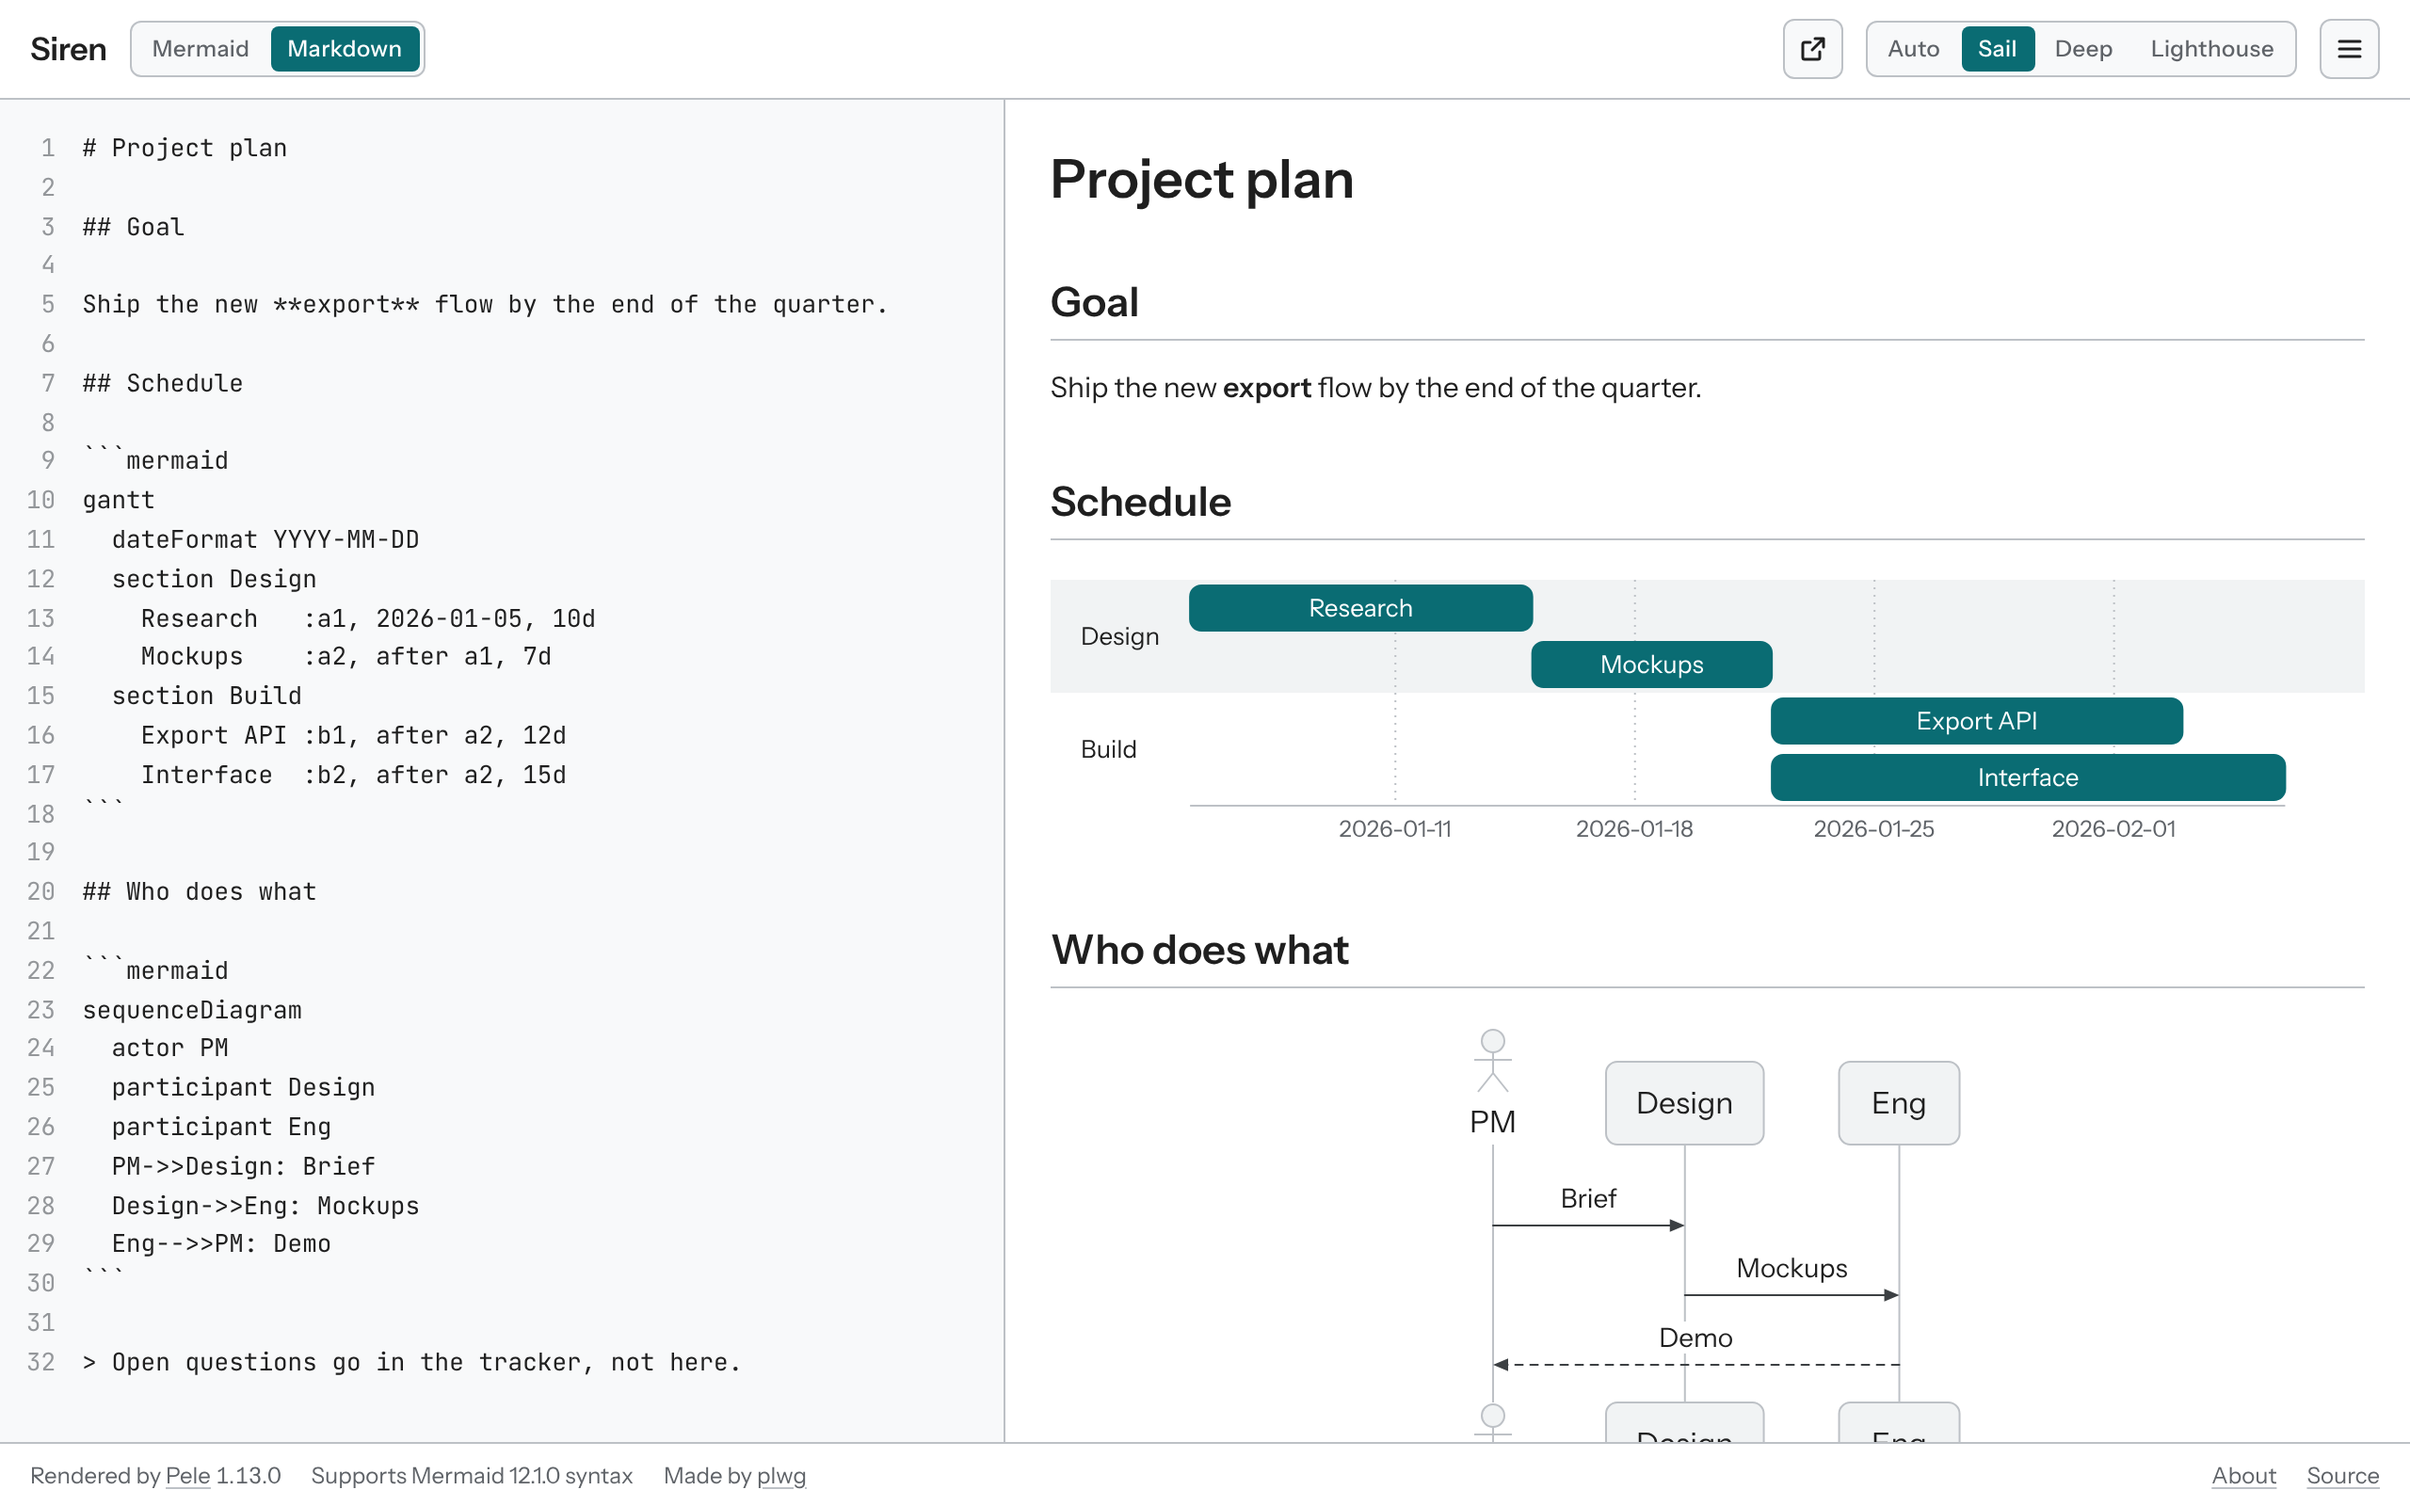
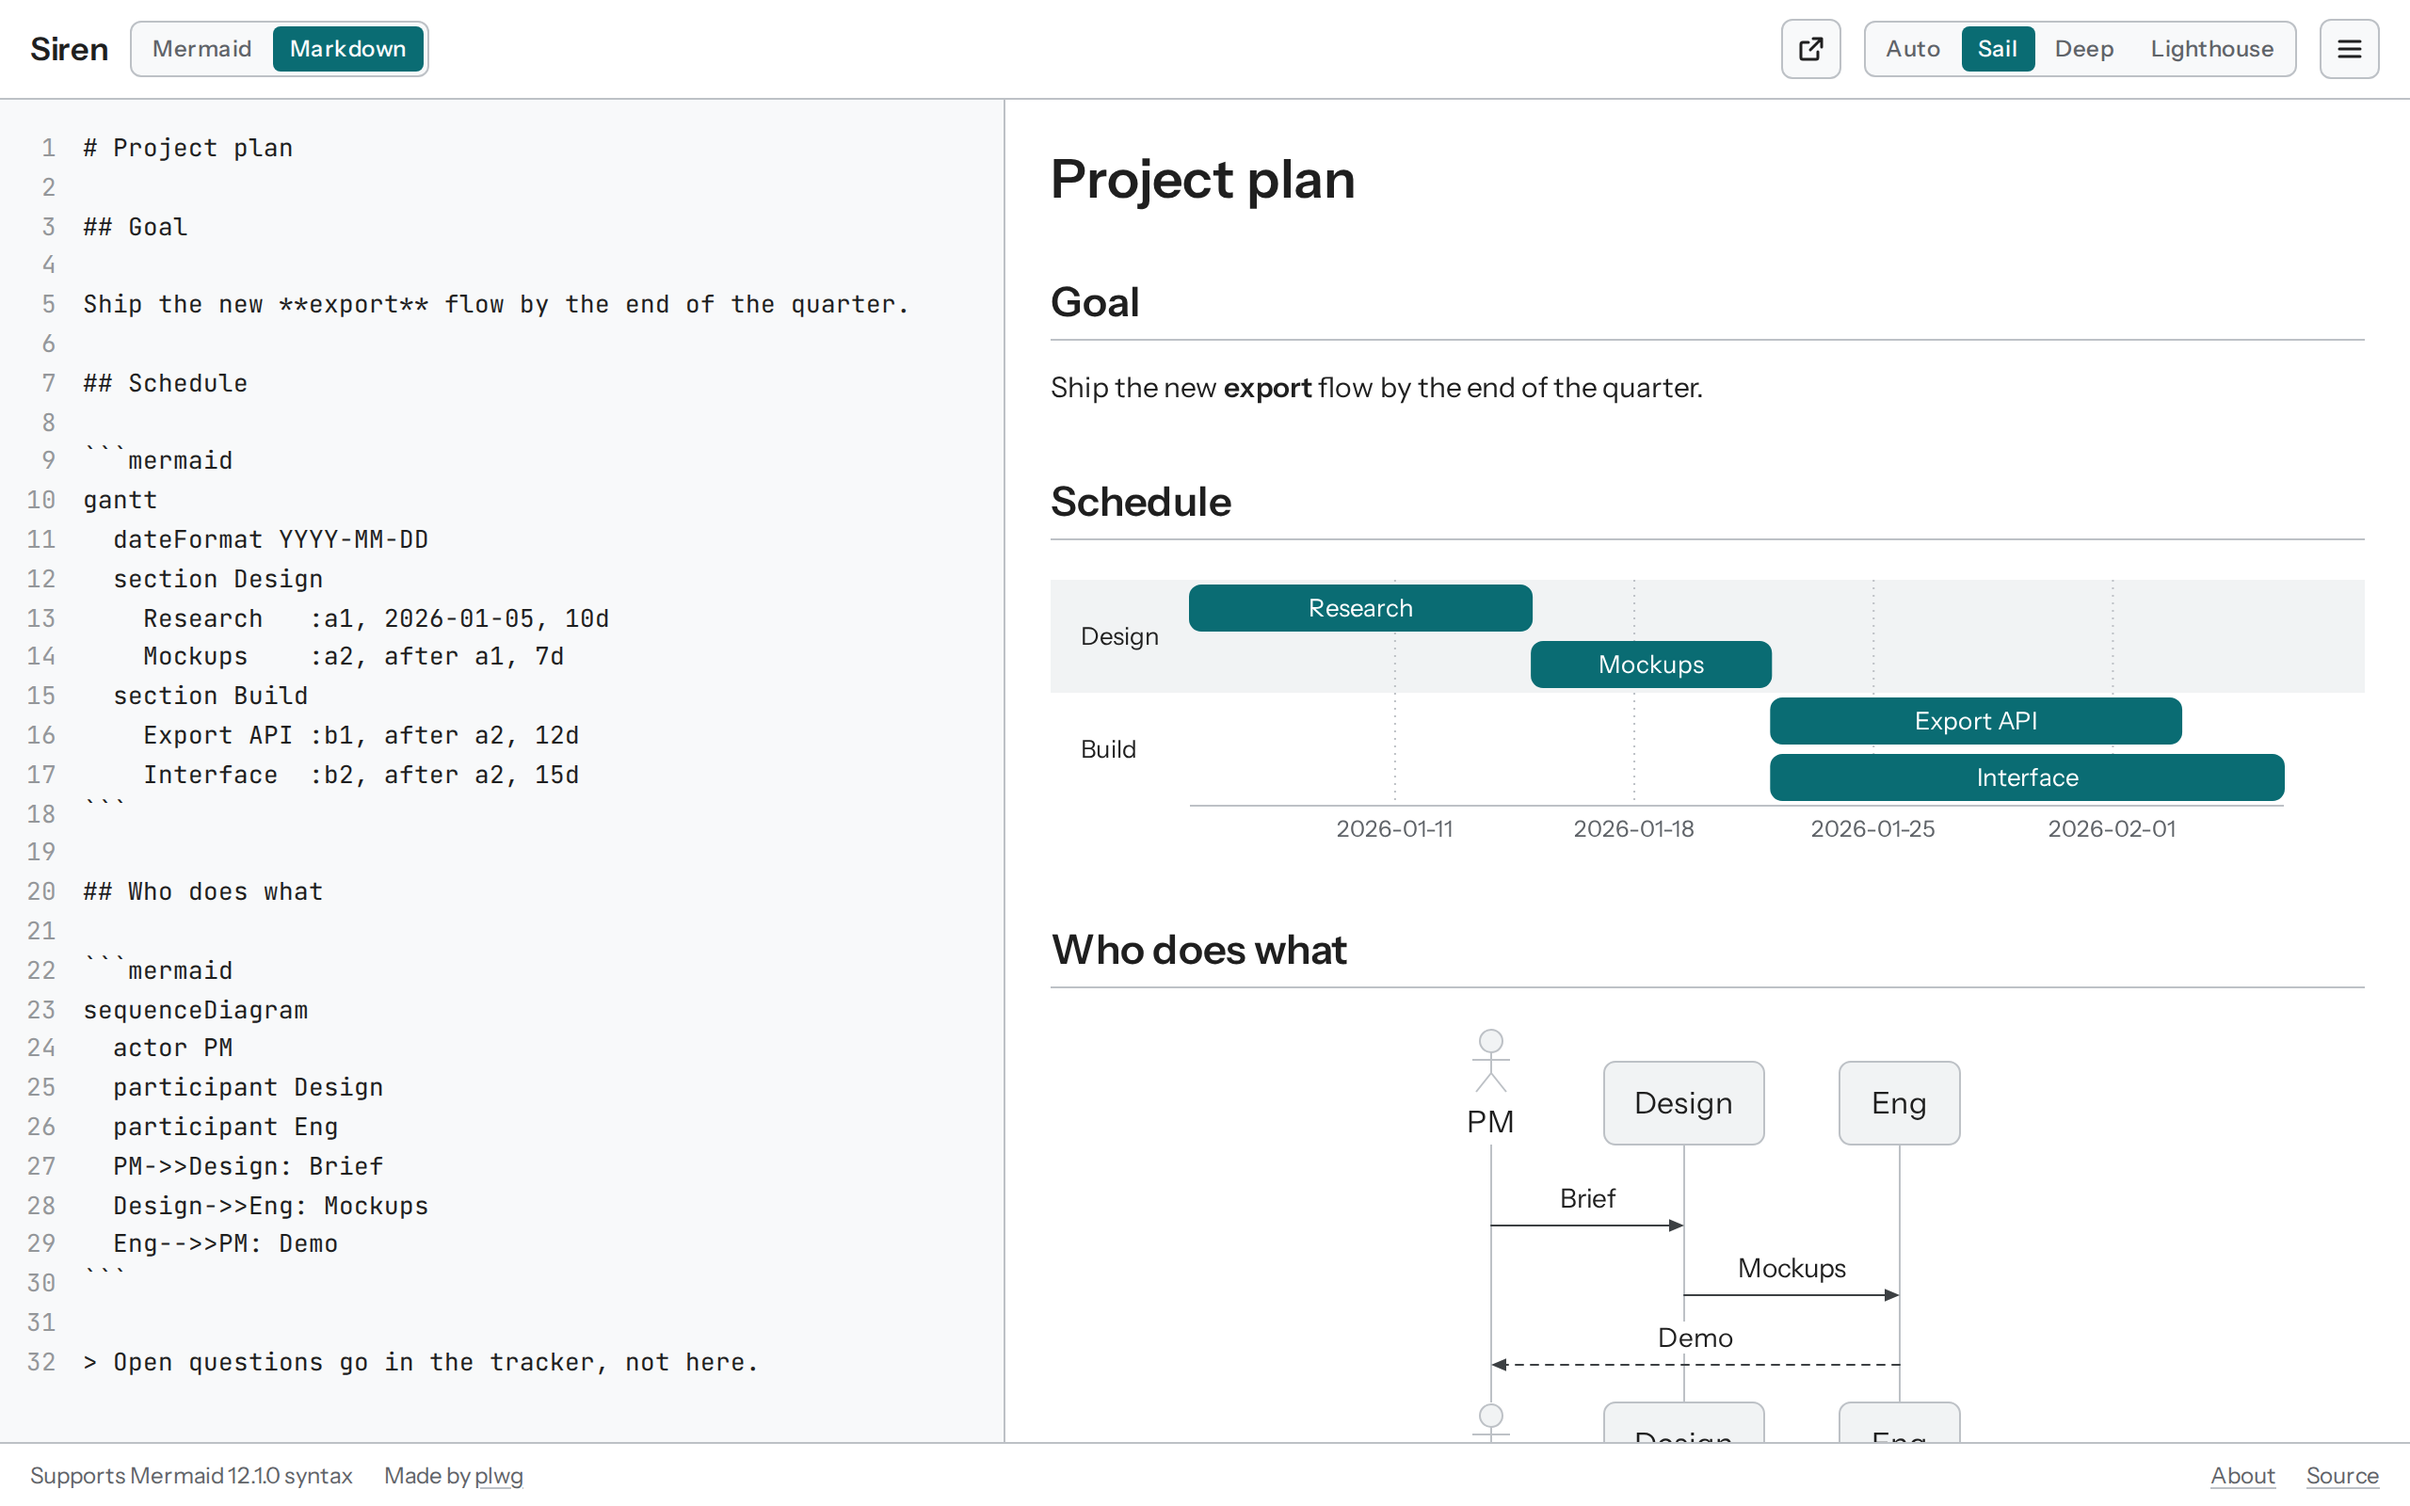
Theme the scrollbars and drop the Pele version from the footer
Scrollbars are thin, with a thumb in the theme's border color on a clear
track, darkening on hover; Safari gets the same look via the WebKit
pseudo-elements. The footer no longer says which Pele version rendered
the diagram, which isn't useful to people drawing them.

diff --git a/src/tokens.css b/src/tokens.css
@@ -74,3 +74,33 @@
   outline: 2px solid var(--focus);
   outline-offset: 2px;
 }
+
+/* Scrollbars in the theme's colors: a thin thumb in the border color on a clear track, darkening
+   to the muted color under the pointer. scrollbar-color covers Chrome and Firefox; the WebKit
+   pseudo-elements cover Safari, which ignores it. */
+* {
+  scrollbar-width: thin;
+  scrollbar-color: var(--border) transparent;
+}
+*:hover {
+  scrollbar-color: var(--muted) transparent;
+}
+@supports not (scrollbar-color: auto) {
+  ::-webkit-scrollbar {
+    width: 10px;
+    height: 10px;
+  }
+  ::-webkit-scrollbar-track,
+  ::-webkit-scrollbar-corner {
+    background: transparent;
+  }
+  ::-webkit-scrollbar-thumb {
+    background: var(--border);
+    border: 2px solid transparent;
+    border-radius: 999px;
+    background-clip: padding-box;
+  }
+  ::-webkit-scrollbar-thumb:hover {
+    background-color: var(--muted);
+  }
+}

diff --git a/index.html b/index.html
@@ -366,7 +366,6 @@
   footer > :last-child { margin-left: auto; display: flex; gap: 16px; }
   footer a { color: inherit; text-decoration-color: var(--border); text-underline-offset: 2px; }
   footer a:hover { color: var(--accent); text-decoration-color: currentColor; }
-  #pele-version { font-variant-numeric: tabular-nums; }
 
   .panes, .narrow-only { display: none; }
 
@@ -626,7 +625,6 @@
   Edit in Siren
 </a>
 <footer>
-  <span>Rendered by <a href="https://github.com/obsidianmd/pele">Pele</a> <span id="pele-version"></span></span>
   <!-- The Mermaid version Pele targets; scripts/check-versions.ts fails the build when they differ. -->
   <span>Supports Mermaid 12.1.0 syntax</span>
   <span>Made by <a href="https://github.com/plwg">plwg</a></span>

diff --git a/src/main.ts b/src/main.ts
@@ -1,5 +1,4 @@
 import { type Mounted, type MountOptions, mount } from 'pele';
-import pkg from '../package.json';
 import { type DocumentReport, type DocumentView, initDocument } from './document';
 import { initEditor, replaceText } from './editor';
 import { errorLine } from './errorline';
@@ -267,8 +266,6 @@ const copy = async (text: string, label: string): Promise<void> => {
     flash(`Couldn't copy the ${label.toLowerCase()}. Copy it from the address bar instead.`, 'error');
   }
 };
-
-byId('pele-version').textContent = pkg.dependencies.pele;
 
 // Each menu action closes the menu and reports back in the header.
 const action = (id: string, run: () => unknown): void =>
